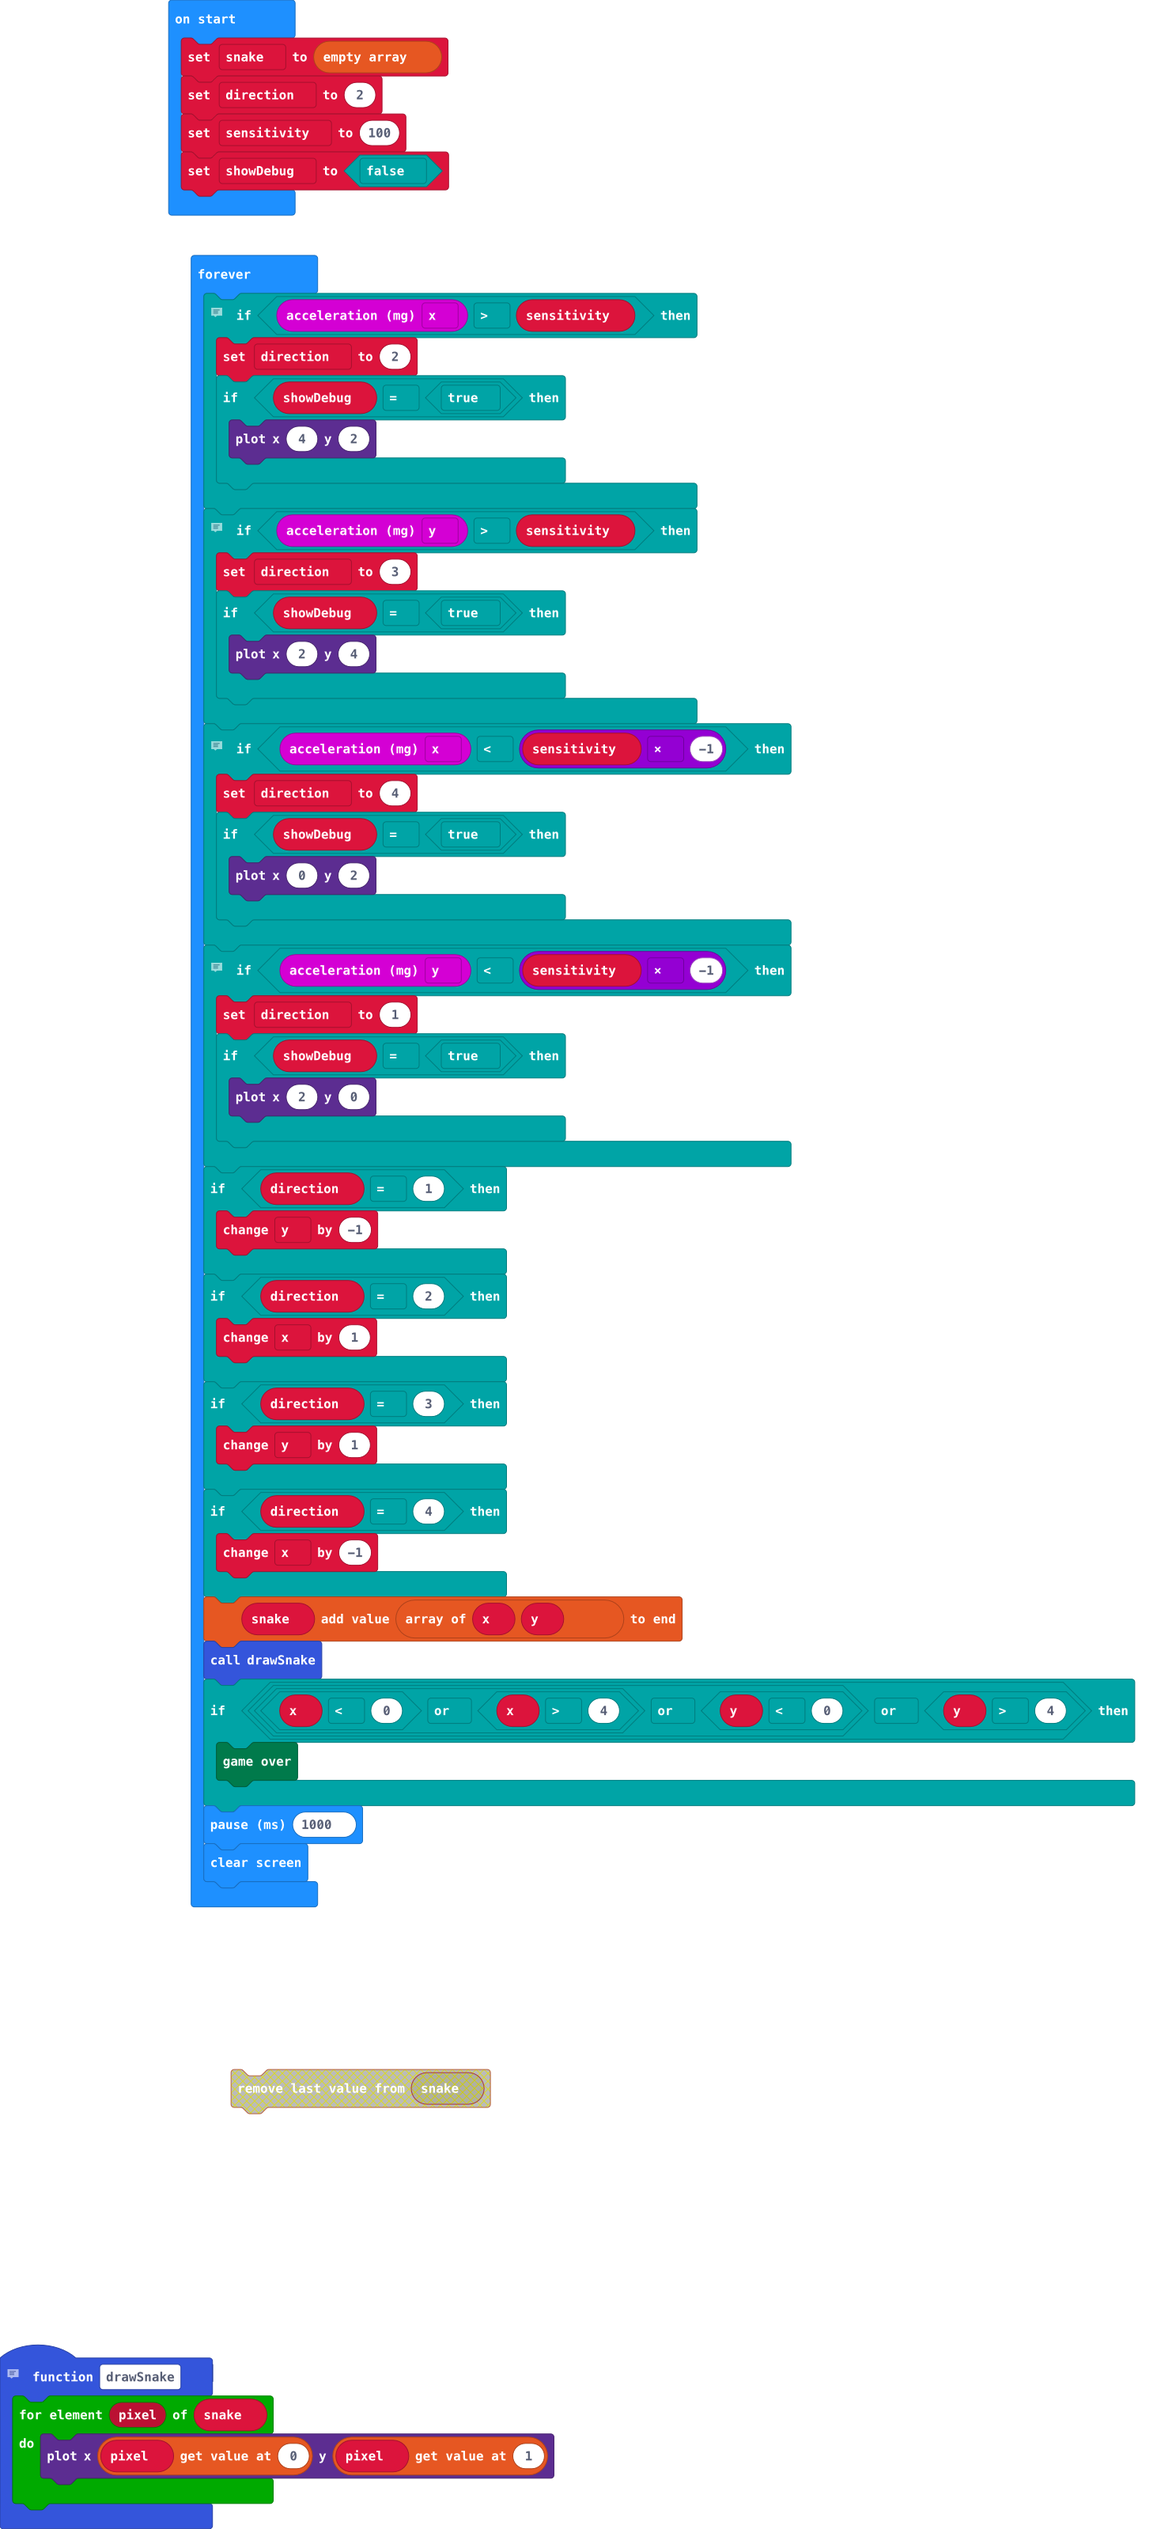
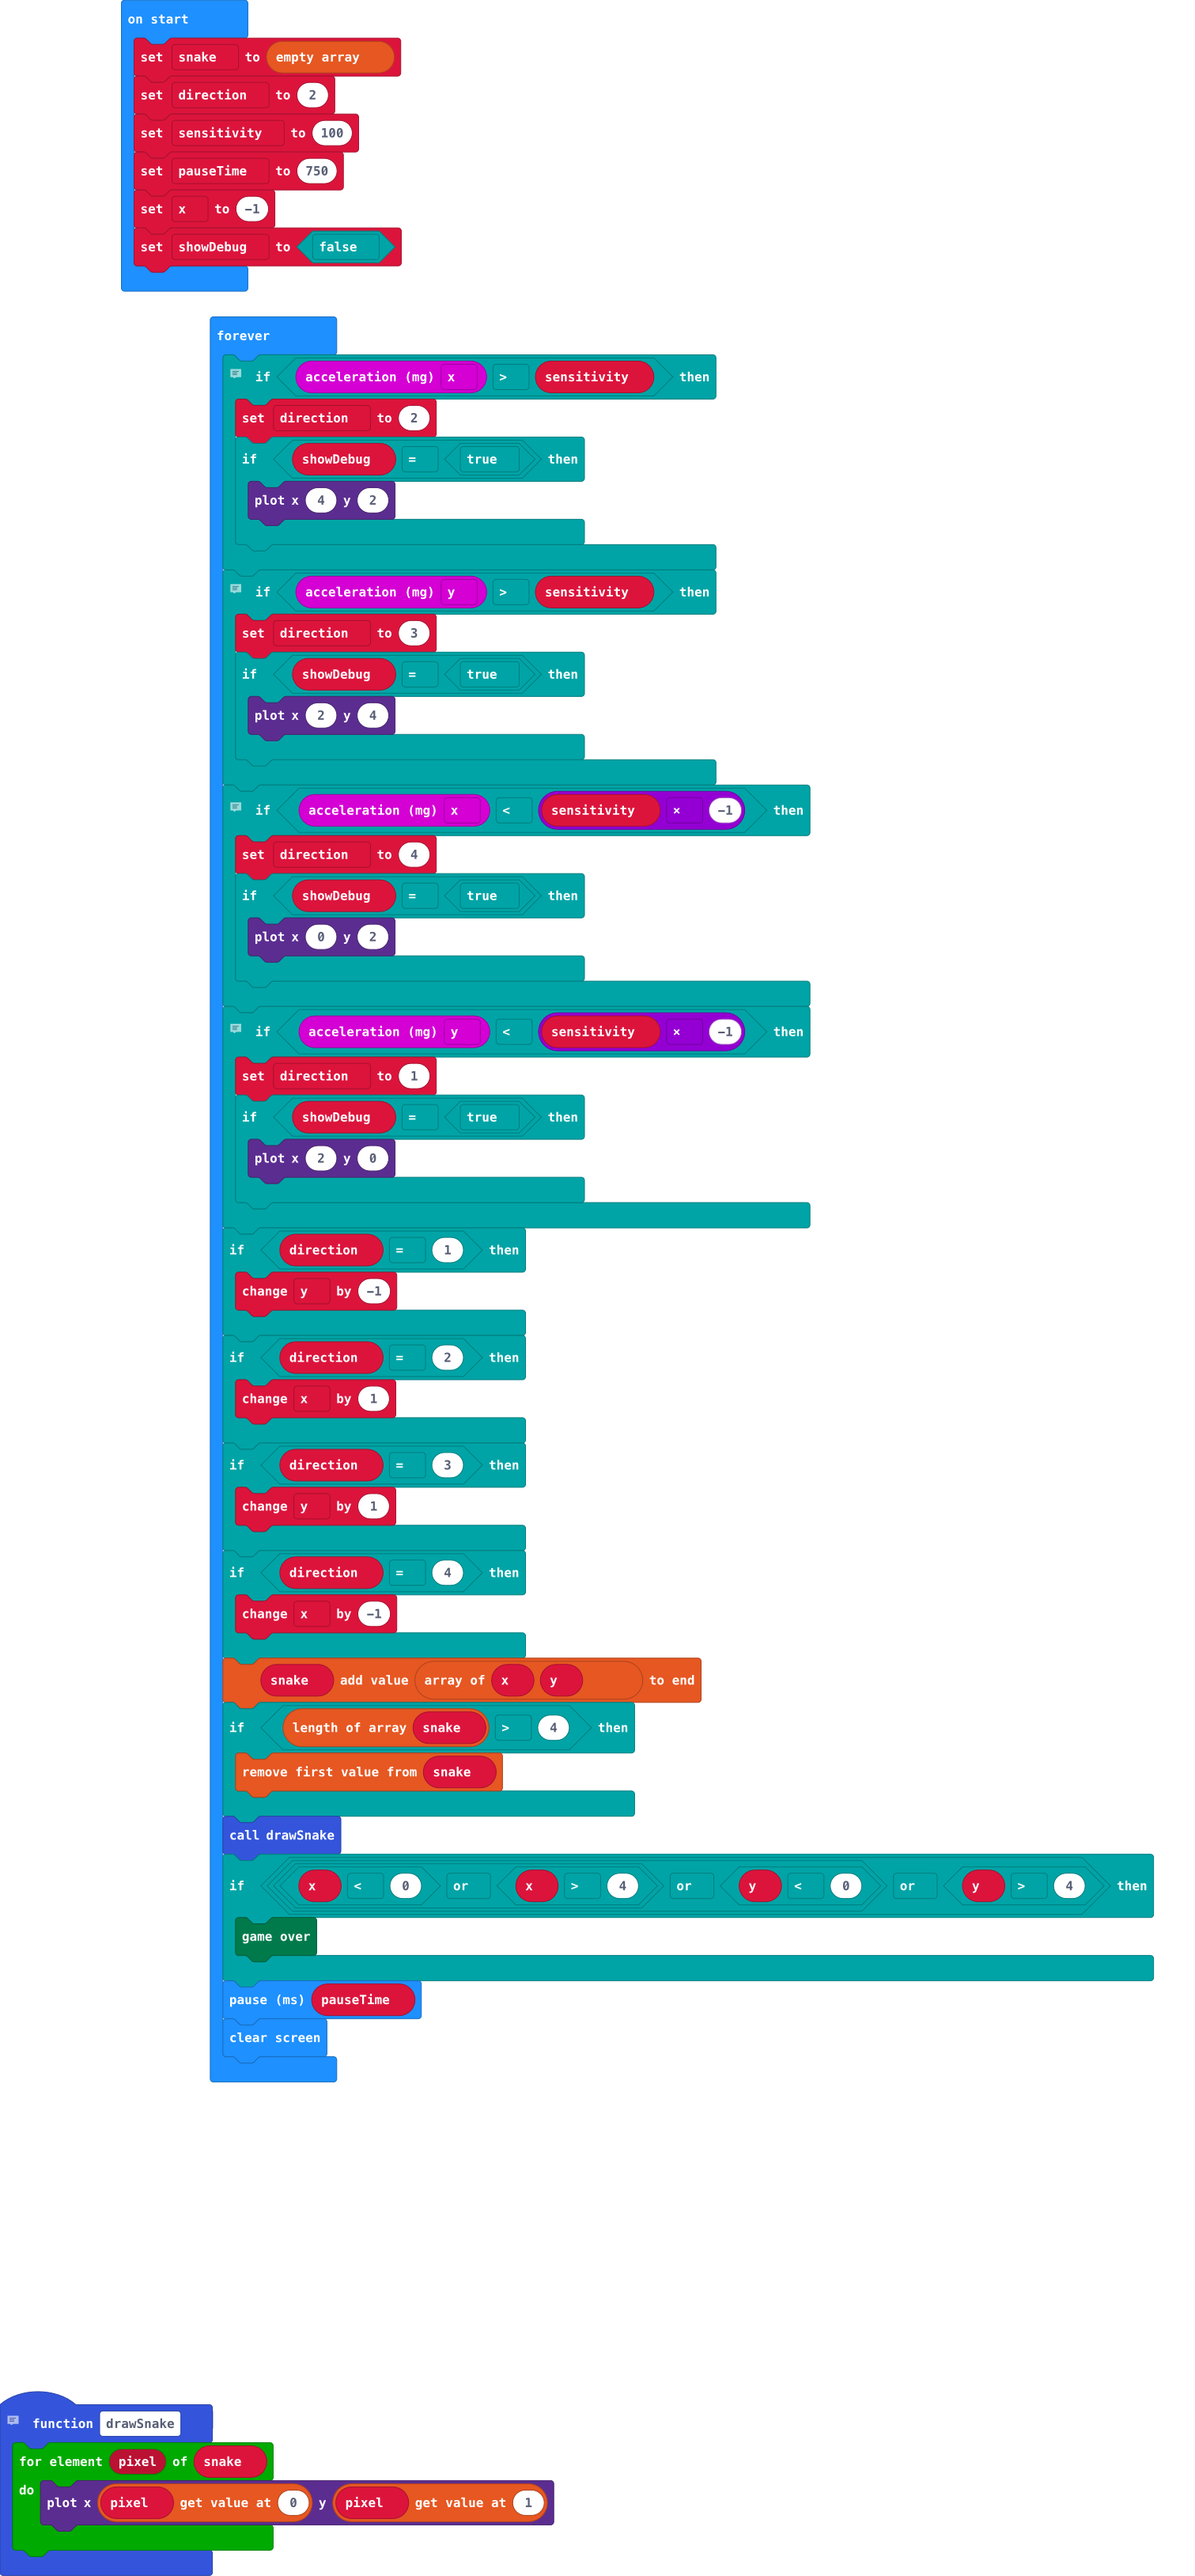
Update main.blocks, main.ts

Changed region(s): [[0.0928, 0.0, 0.9899, 0.8361], [0.0, 0.929, 0.495, 1.0]]

diff --git a/main.ts b/main.ts
@@ -11,12 +11,13 @@ function drawSnake () {
         led.plot(pixel[0], pixel[1])
     }
 }
-let x = 0
 let y = 0
 let snake: number[][] = []
 snake = []
 let direction = 2
 let sensitivity = 100
+let pauseTime = 750
+let x = -1
 let showDebug = false
 basic.forever(function () {
     // right
@@ -60,10 +61,13 @@ basic.forever(function () {
         x += -1
     }
     snake.push([x, y])
+    if (snake.length > 4) {
+        snake.shift()
+    }
     drawSnake()
     if (x < 0 || x > 4 || y < 0 || y > 4) {
         game.gameOver()
     }
-    basic.pause(1000)
+    basic.pause(pauseTime)
     basic.clearScreen()
 })
